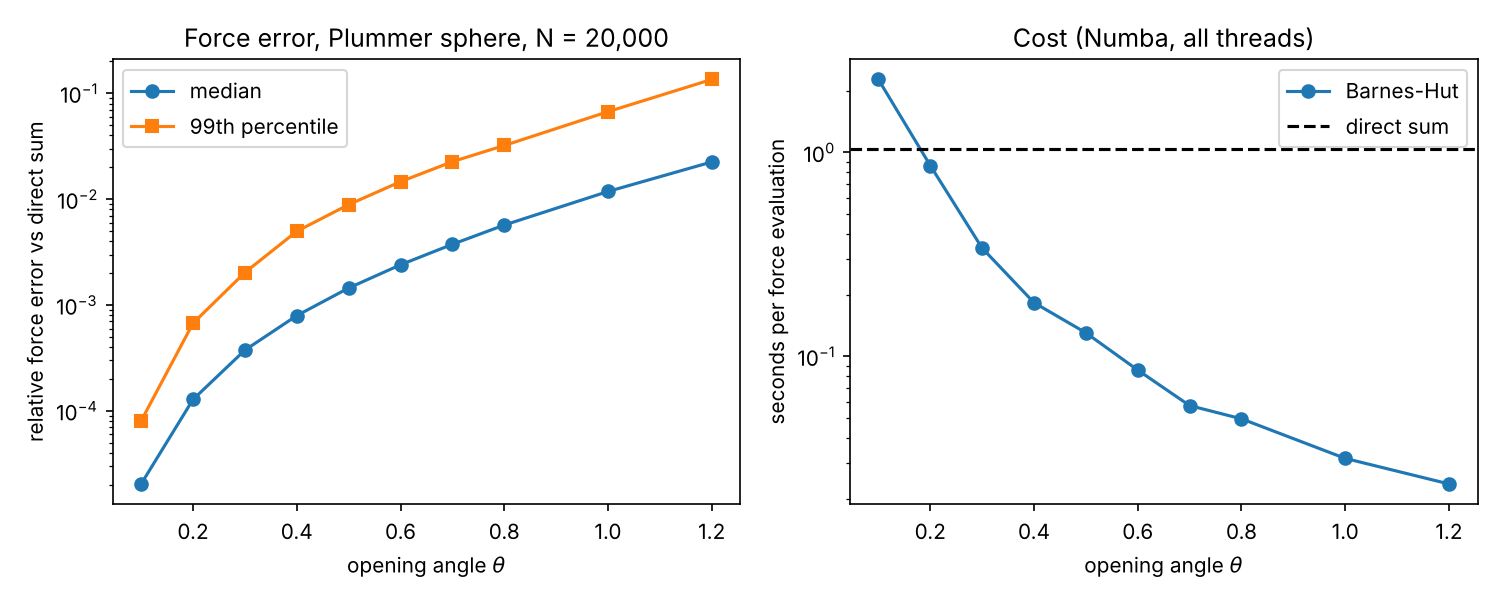
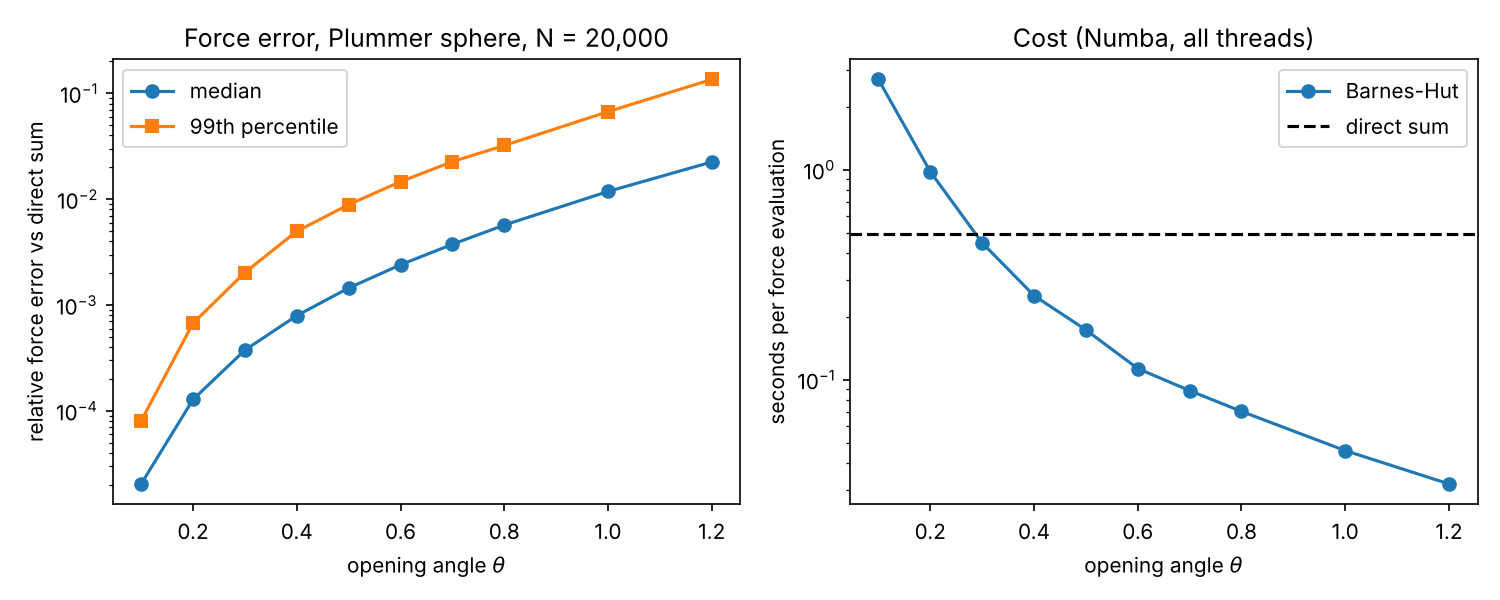
Fix Stage 4 theta timing: warm up the direct sum before timing it
The first direct-sum call included Numba start-up cost, which made the
reference look about 2x slower than it is. Both kernels are now warmed up
and each timing is the fastest of three calls; results regenerated.
Also adds a test that each planet alone with the Sun follows Kepler's law.

diff --git a/tests/test_solar_system.py b/tests/test_solar_system.py
@@ -3,13 +3,13 @@
 import numpy as np
 import pytest
 
-from nbody.constants import DAYS_PER_YEAR
+from nbody.constants import DAYS_PER_YEAR, G
 from nbody.diagnostics import linear_momentum
 from nbody.forces import make_direct_accel
 from nbody.integrators import leapfrog_step
-from nbody.simulation import run
+from nbody.simulation import System, run
 from nbody.solar_system import load_solar_system, read_reference_periods
-from nbody.twobody import measured_period
+from nbody.twobody import kepler_period, measured_period
 
 
 def test_data_loads_at_the_recorded_epoch() -> None:
@@ -42,3 +42,18 @@ def test_reference_periods_are_sidereal_not_tropical() -> None:
     periods = read_reference_periods()
     assert set(periods) == {"Mercury", "Venus", "Earth", "Mars", "Jupiter", "Saturn", "Uranus", "Neptune"}
     assert all(p["sidereal"] > p["tropical"] for p in periods.values())
+
+
+@pytest.mark.parametrize("planet", [1, 5, 8])  # Mercury, Jupiter, Neptune
+def test_each_planet_alone_with_the_sun_obeys_kepler(planet: int) -> None:
+    """With the other planets removed, the real initial conditions must give a Kepler orbit."""
+    full, _ = load_solar_system()
+    pair = System(full.pos[[0, planet]], full.vel[[0, planet]], full.mass[[0, planet]])
+    rel_pos, rel_vel = pair.pos[1] - pair.pos[0], pair.vel[1] - pair.vel[0]
+    total = pair.mass.sum()
+    a = 1.0 / (2.0 / np.linalg.norm(rel_pos) - rel_vel @ rel_vel / (G * total))  # vis-viva
+    T = kepler_period(a, total)
+    n = 20_000
+    traj = run(pair, leapfrog_step, make_direct_accel(pair.mass), T / n, int(1.05 * n))
+    T_sim = measured_period(traj.times, traj.pos[:, 1] - traj.pos[:, 0])
+    assert T_sim == pytest.approx(T, rel=1e-6)

diff --git a/scripts/stage4_theta.py b/scripts/stage4_theta.py
@@ -19,15 +19,20 @@ N, EPS, SEED = 20_000, 0.01, 42  # Plummer sphere in N-body units (G = M = scale
 THETAS = [0.1, 0.2, 0.3, 0.4, 0.5, 0.6, 0.7, 0.8, 1.0, 1.2]
 
 
-def timed(fn, *args, **kwargs) -> tuple[np.ndarray, float]:
-    start = time.perf_counter()
-    out = fn(*args, **kwargs)
-    return out, time.perf_counter() - start
+def timed(fn, *args) -> tuple[np.ndarray, float]:
+    """Result and the fastest wall time of three calls."""
+    best = float("inf")
+    for _ in range(3):
+        start = time.perf_counter()
+        out = fn(*args)
+        best = min(best, time.perf_counter() - start)
+    return out, best
 
 
 def main() -> None:
     s = plummer_sphere(N, np.random.default_rng(SEED))
-    bh_accel(s.pos[:100], s.mass[:100], 0.5, EPS, 1.0)  # compile before timing
+    bh_accel(s.pos[:100], s.mass[:100], 0.5, EPS, 1.0)  # compile both kernels before timing
+    direct_accel_compiled(s.pos[:100], s.mass[:100], EPS, 1.0)
     exact, t_direct = timed(direct_accel_compiled, s.pos, s.mass, EPS, 1.0)
     exact_norm = np.linalg.norm(exact, axis=1)
     rows = []

diff --git a/tests/test_verification.py b/tests/test_verification.py
@@ -5,7 +5,7 @@ import pytest
 
 from nbody.diagnostics import angular_momentum, linear_momentum, total_energy
 from nbody.forces import make_direct_accel
-from nbody.integrators import INTEGRATORS, euler_step, leapfrog_step, rk4_step
+from nbody.integrators import euler_step, leapfrog_step, rk4_step
 from nbody.simulation import System, run
 from nbody.twobody import kepler_period, measured_period, relative_position, two_body_system
 
